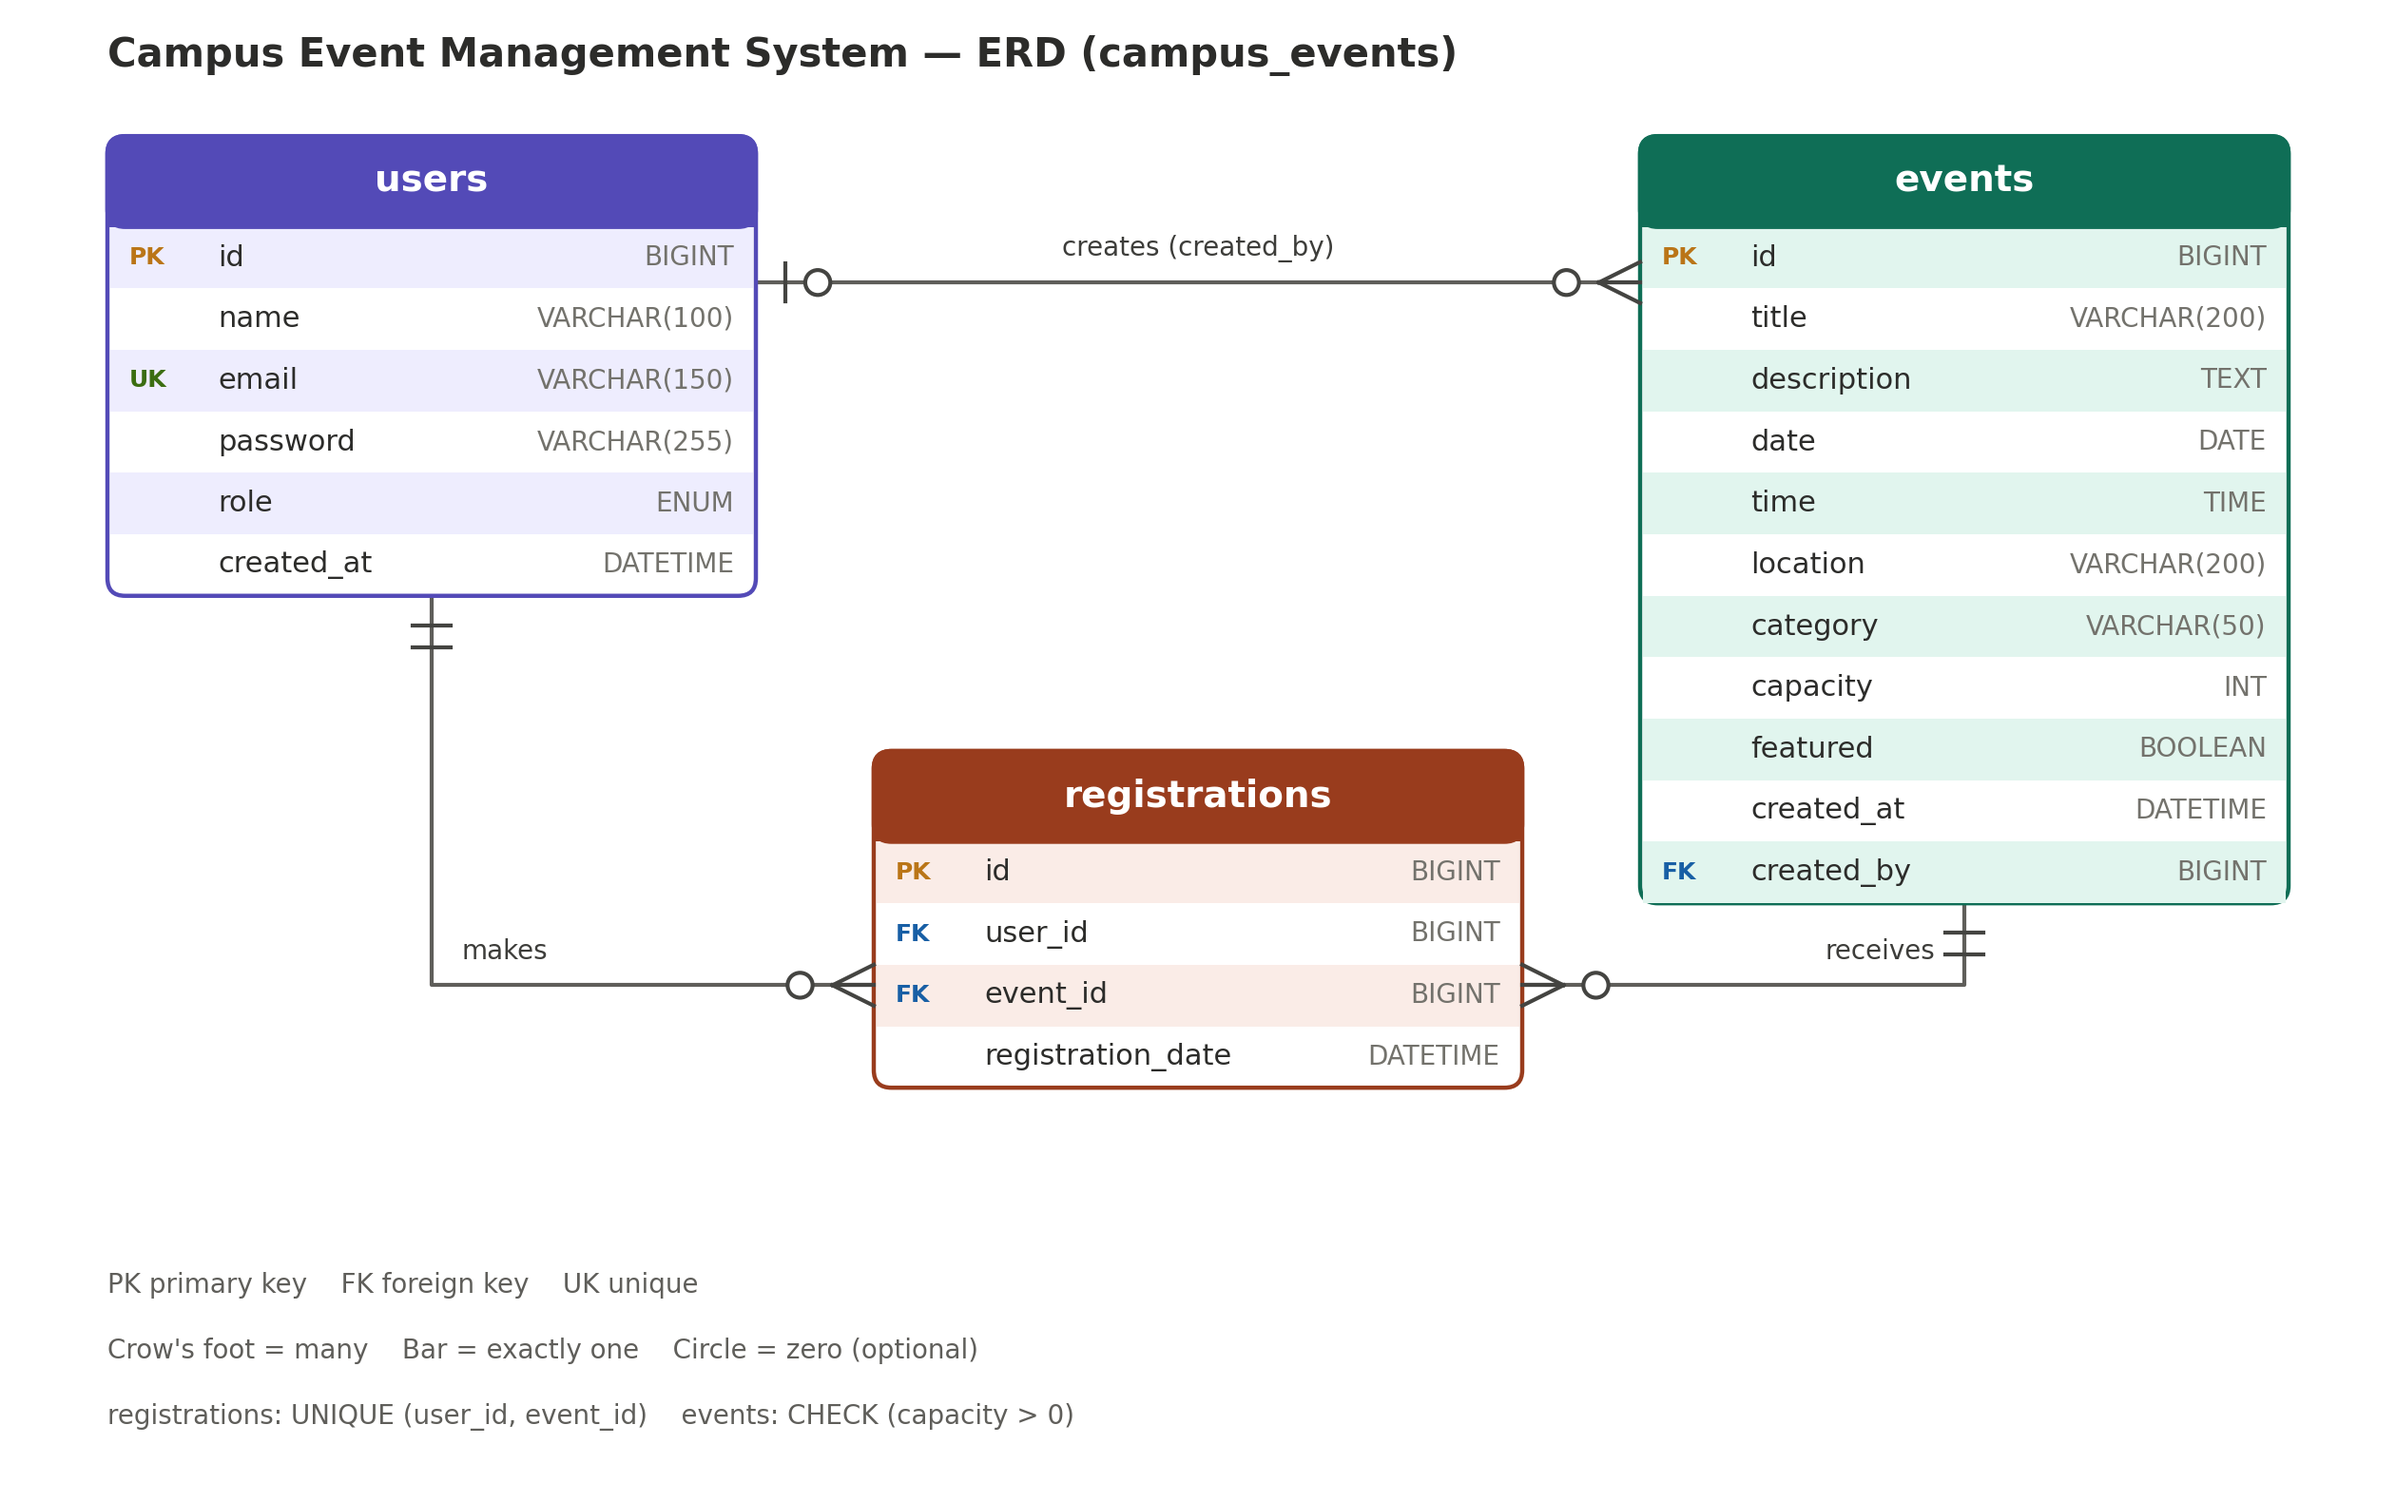
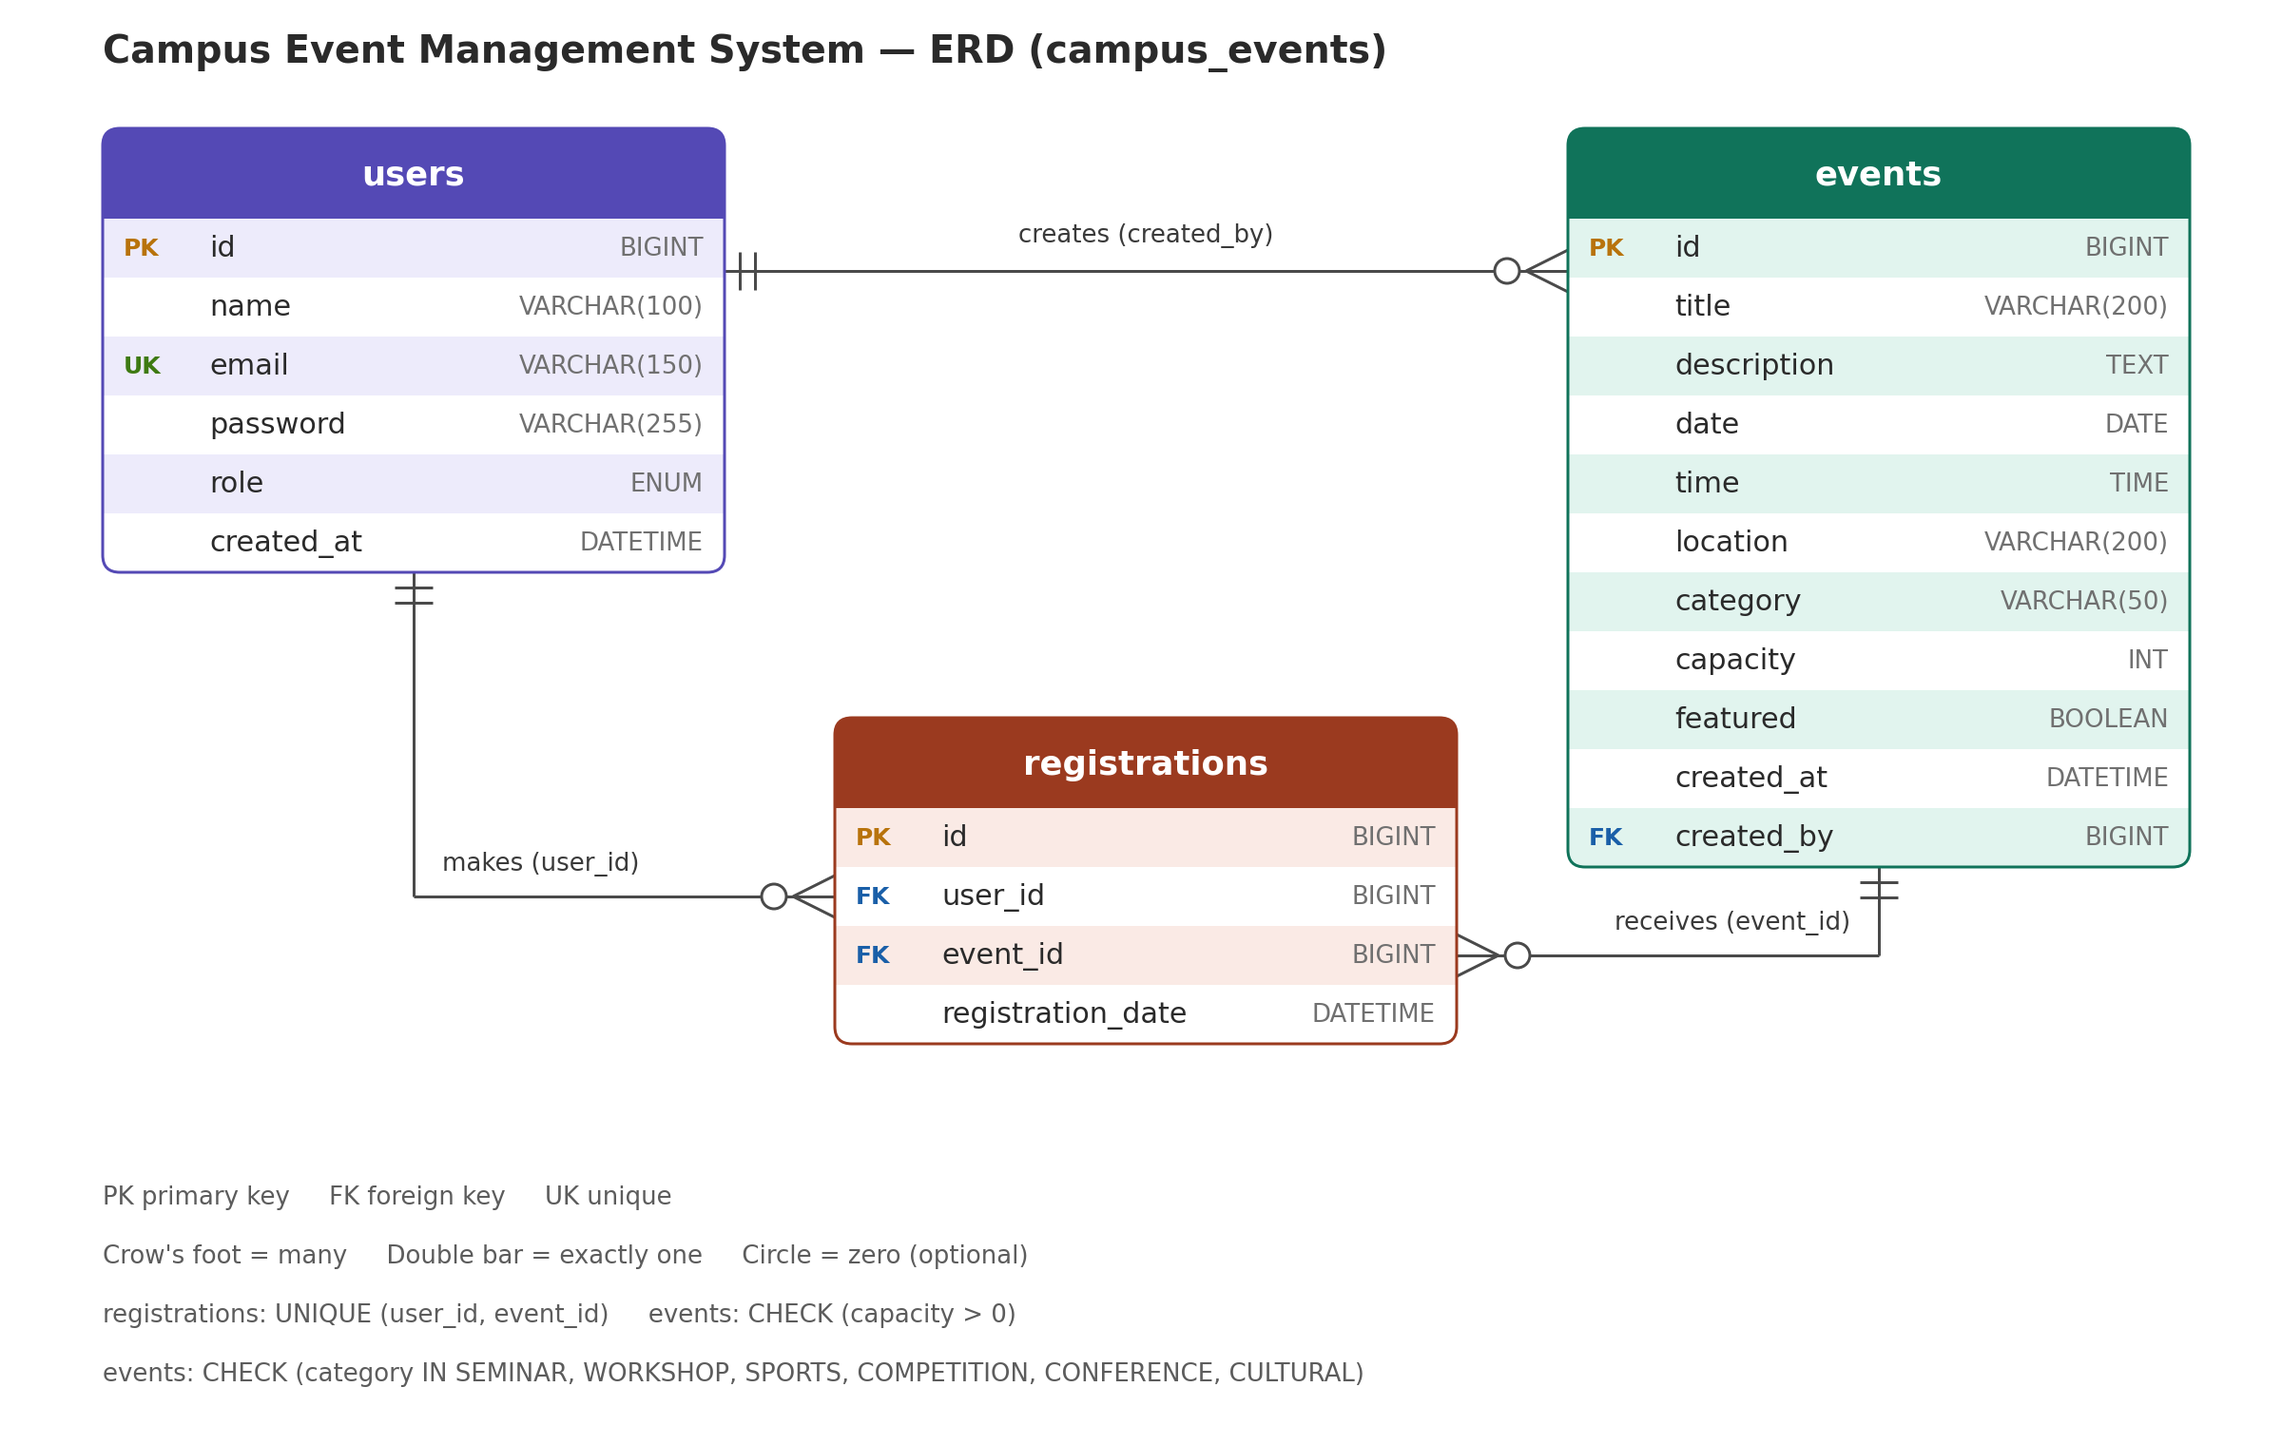
docs: add ERD diagram and mermaid source for the schema (#5)

diff --git a/documentation/ERD.md b/documentation/ERD.md
@@ -1,0 +1,53 @@
+# Campus Event Management System — ERD (campus_events)
+
+```mermaid
+---
+title: Campus Event Management System — ERD (campus_events)
+---
+erDiagram
+    users ||--o{ events : "creates (created_by)"
+    users ||--o{ registrations : "makes (user_id)"
+    events ||--o{ registrations : "receives (event_id)"
+
+    users {
+        BIGINT id PK "AUTO_INCREMENT"
+        VARCHAR_100 name "NOT NULL"
+        VARCHAR_150 email UK "NOT NULL"
+        VARCHAR_255 password "NOT NULL"
+        ENUM role "STUDENT, ADMIN"
+        DATETIME created_at "DEFAULT CURRENT_TIMESTAMP"
+    }
+
+    events {
+        BIGINT id PK "AUTO_INCREMENT"
+        VARCHAR_200 title "NOT NULL"
+        TEXT description
+        DATE date "NOT NULL"
+        TIME time "NOT NULL"
+        VARCHAR_200 location "NOT NULL"
+        VARCHAR_50 category "CHECK in 6 values"
+        INT capacity "CHECK capacity > 0"
+        BOOLEAN featured "DEFAULT FALSE"
+        DATETIME created_at "DEFAULT CURRENT_TIMESTAMP"
+        BIGINT created_by FK "NOT NULL"
+    }
+
+    registrations {
+        BIGINT id PK "AUTO_INCREMENT"
+        BIGINT user_id FK "NOT NULL"
+        BIGINT event_id FK "NOT NULL"
+        DATETIME registration_date "DEFAULT CURRENT_TIMESTAMP"
+    }
+```
+
+## Legend
+
+- **PK** primary key, **FK** foreign key, **UK** unique
+- `||` = exactly one, `o{` = zero or many
+
+## Constraints
+
+- `users.role`: ENUM (`STUDENT`, `ADMIN`)
+- `events.capacity`: CHECK (`capacity > 0`) — `chk_events_capacity`
+- `events.category`: CHECK in (`SEMINAR`, `WORKSHOP`, `SPORTS`, `COMPETITION`, `CONFERENCE`, `CULTURAL`) — `chk_events_category`
+- `registrations`: UNIQUE (`user_id`, `event_id`) — `uq_user_event`; junction table (users M:N events)
